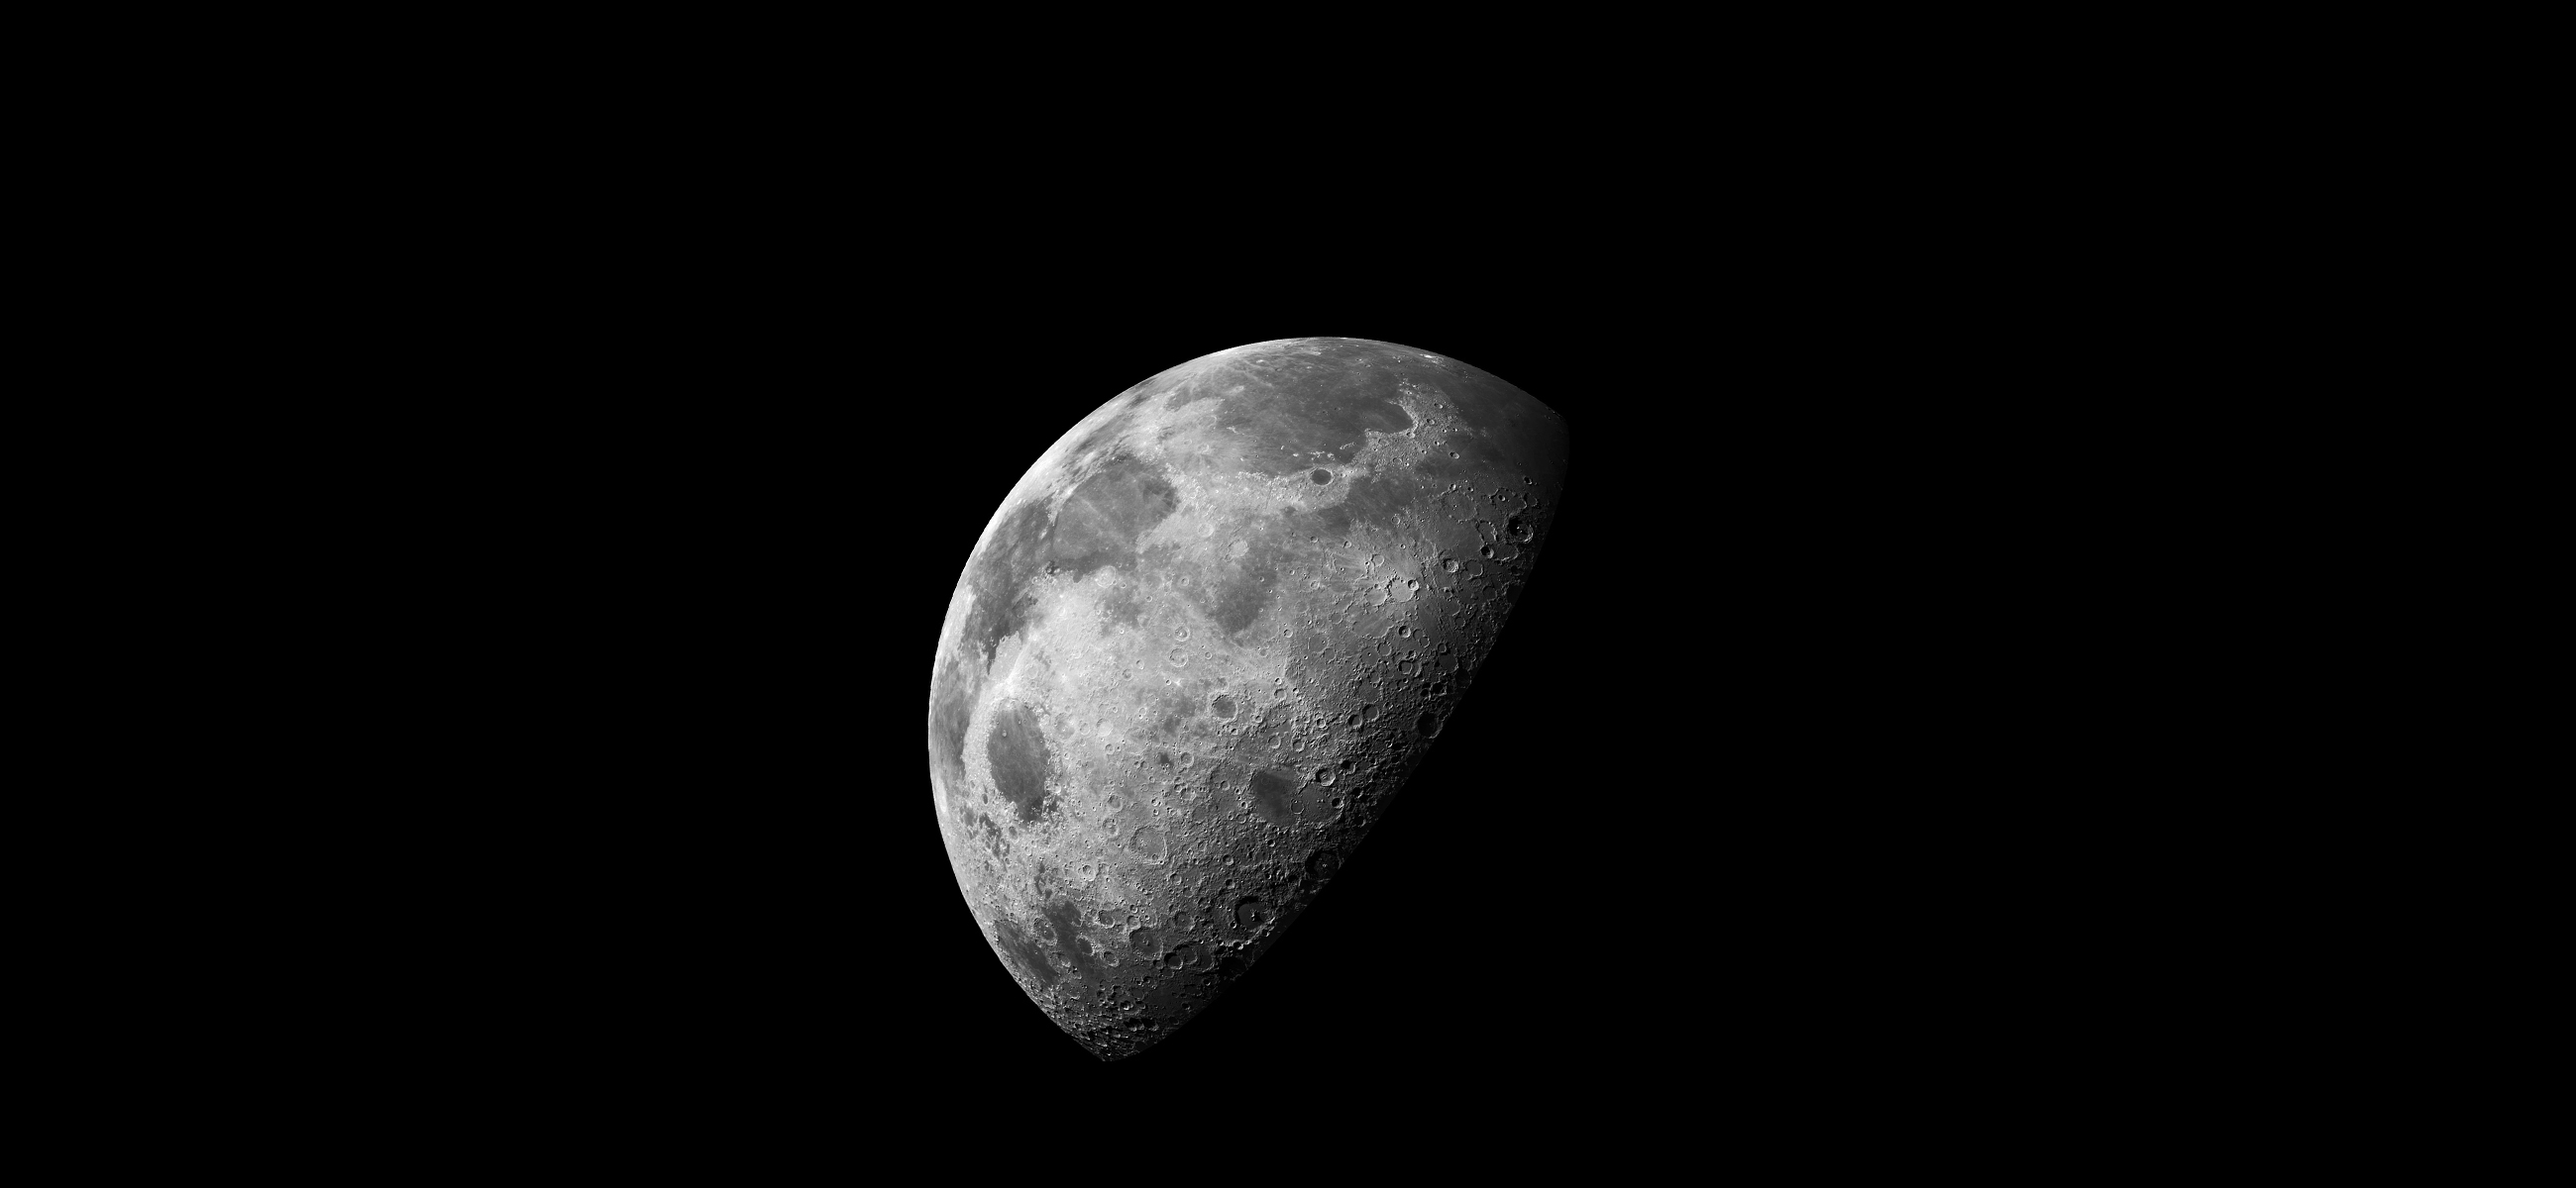
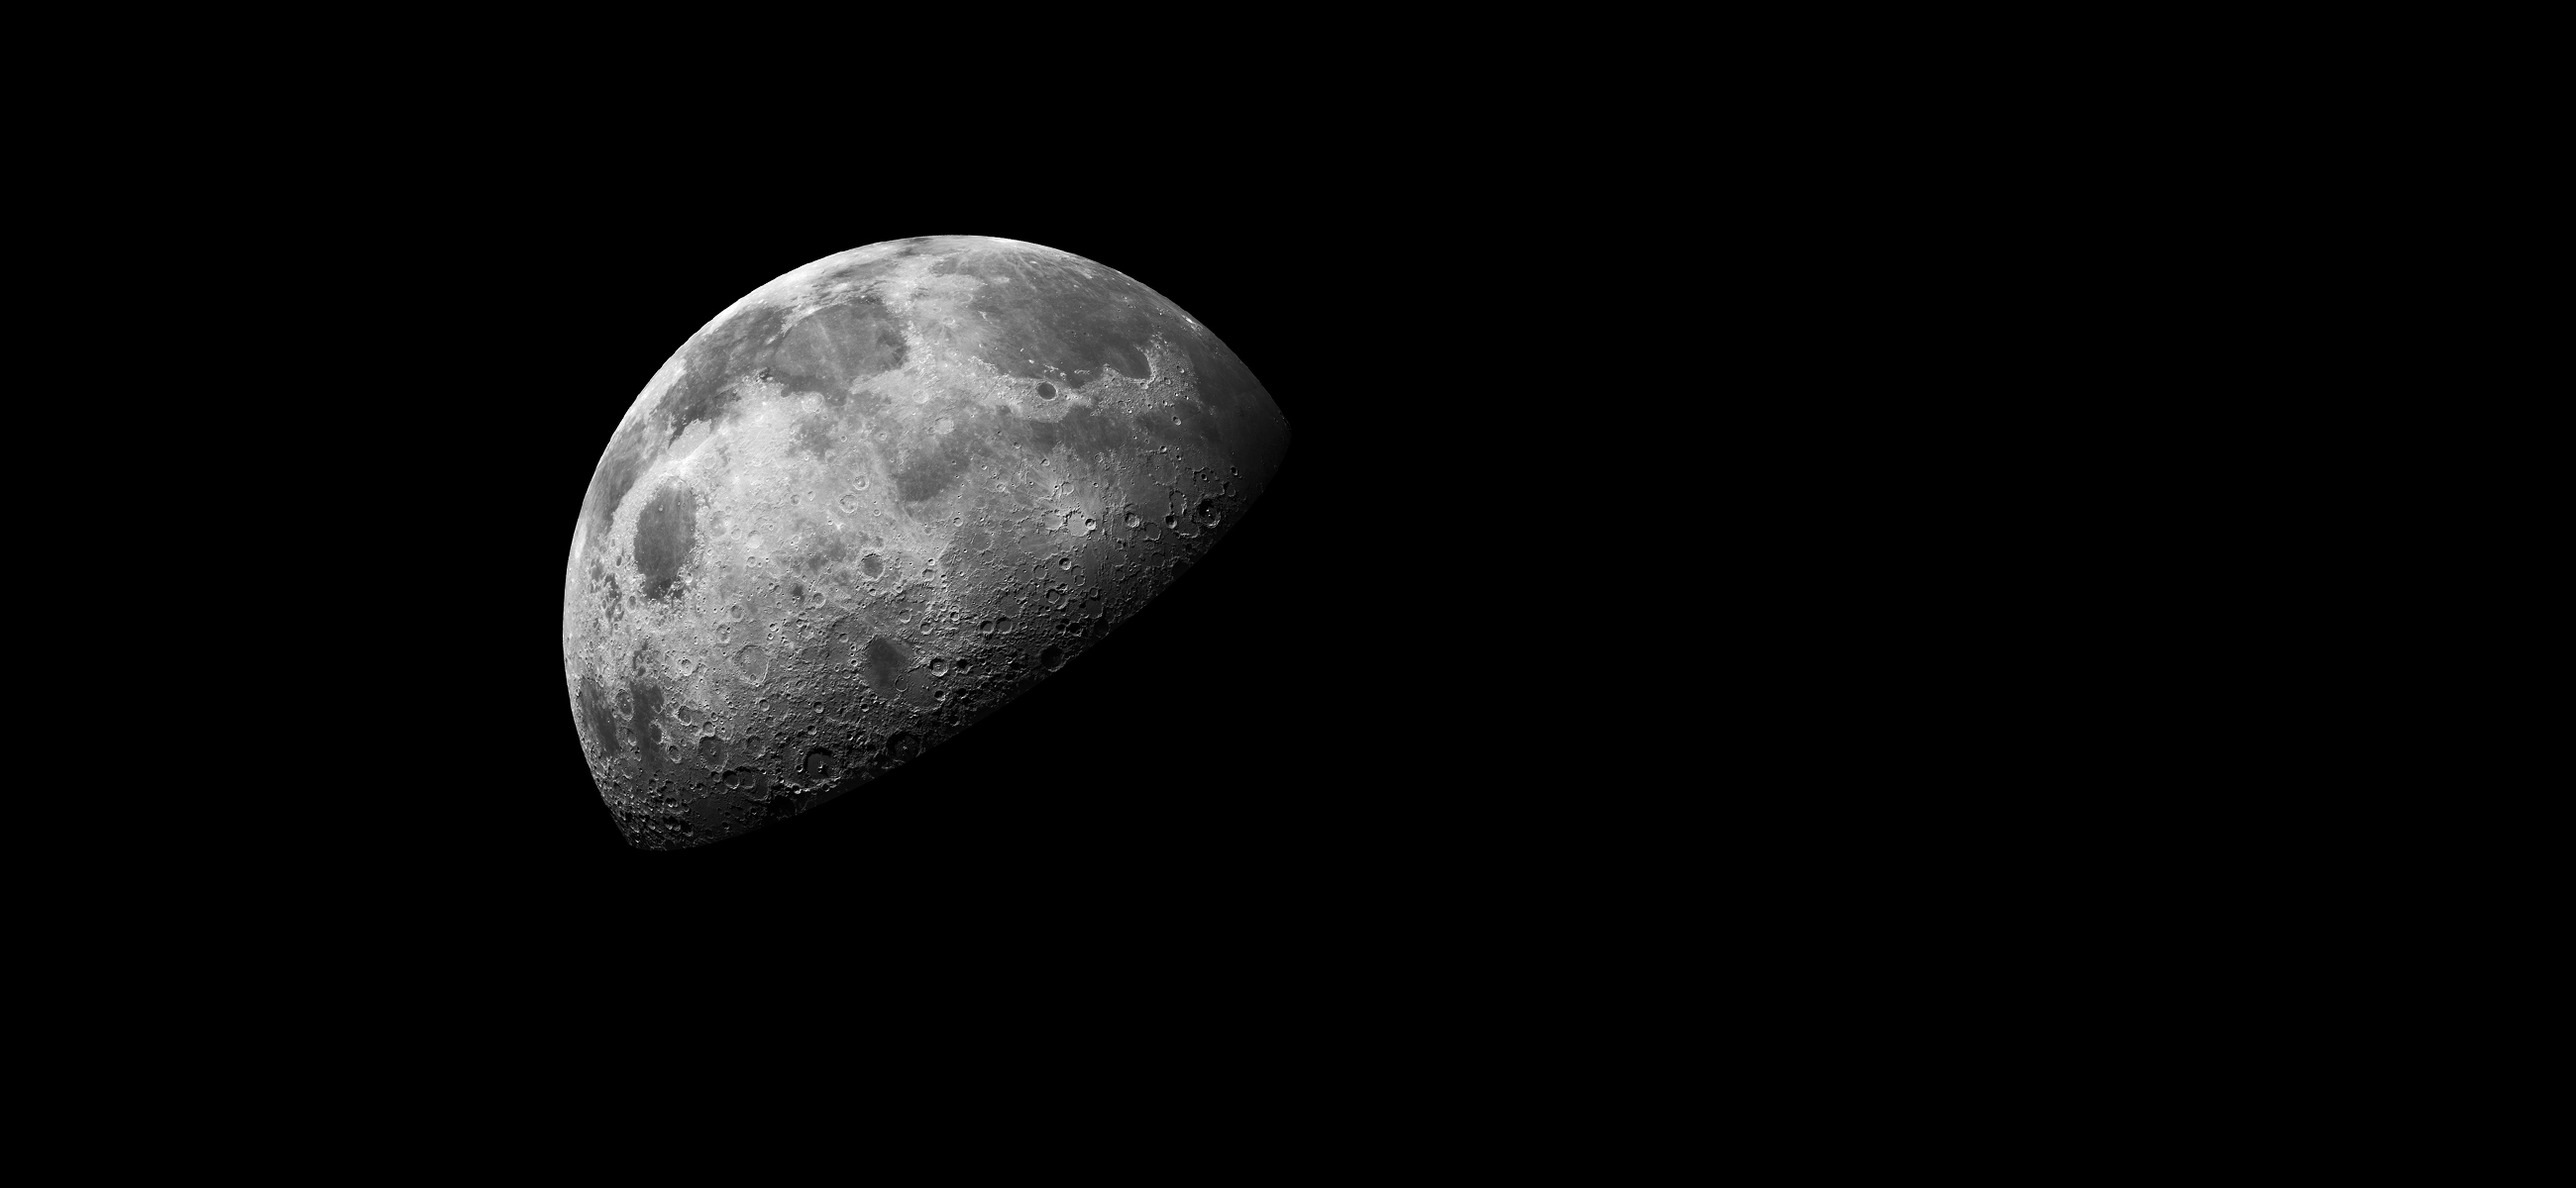
refactor(moon): align why section layout with SpaceX design

Changed region(s): [[0.2181, 0.185, 0.6231, 0.8942]]

diff --git a/src/pages/moon/components/moonWhySection/WhySection.css b/src/pages/moon/components/moonWhySection/WhySection.css
@@ -1,3 +1,7 @@
+.hero-section-why {
+  background-color: black;
+}
+
 .hero-section-why__img-wrapper {
   position: relative;
   width: 100%;
@@ -8,14 +12,21 @@
 .hero-section-why__img {
   position: absolute;
   inset: 0;
+  z-index: 1;
+
   width: 100%;
   height: 100%;
+
   object-fit: cover;
   object-position: center center;
-  transform: scale(1.2);
+
+  transform: none;
 }
 
 .hero-section-why__content {
+  position: relative;
+  z-index: 2;
+
   color: white;
   padding: 40px 20px;
 }
@@ -38,30 +49,37 @@
     transform: scale(0.8);
   }
 }
-
 @media (min-width: 1024px) {
-  .hero-section-why {
-    display: flex;
-    align-items: center;
-    justify-content: center;
+  .hero-section-why__img {
+    object-position: center center;
+    transform-origin: center center;
+    transform: rotate(20deg) scale(1.4);
   }
 
-  .hero-section-why__img {
-    left: -100px;
-    object-fit: none;
-    transform: scale(1.2);
+  .hero-section-why {
+    position: relative;
+    min-height: 100vh;
+  }
+
+  .hero-section-why__img-wrapper {
+    position: absolute;
+    inset: 0;
+
+    width: 50%;
+    height: 100%;
   }
 
   .hero-section-why__content {
-    width: 70%;
-    max-width: 95%;
-    padding-right: 50px;
-  }
+    min-height: 100vh;
 
-  .hero-section-why__title {
-    line-height: 3rem;
-    max-width: 90%;
-    font-size: 3rem;
+    margin-left: 50%;
+    width: 50%;
+
+    display: flex;
+    flex-direction: column;
+    justify-content: center;
+
+    padding-right: 50px;
   }
 }
 
